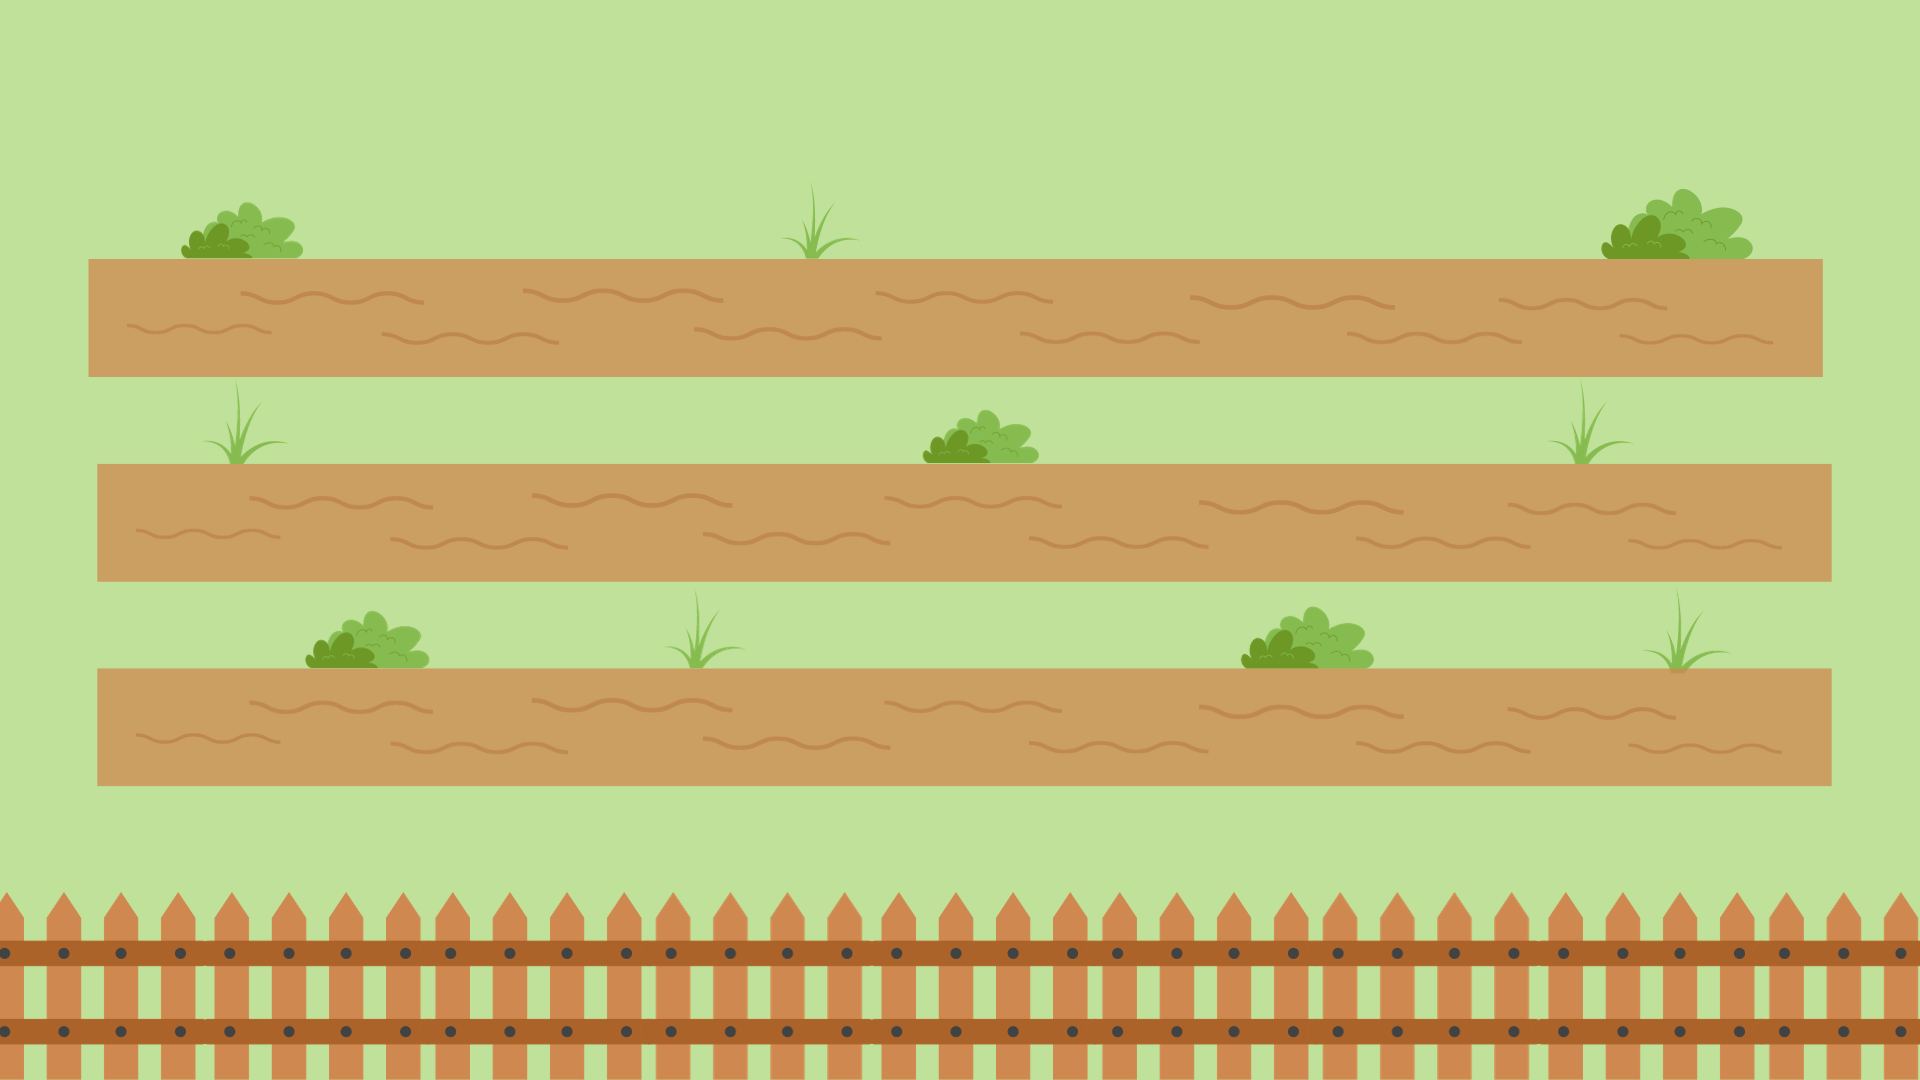
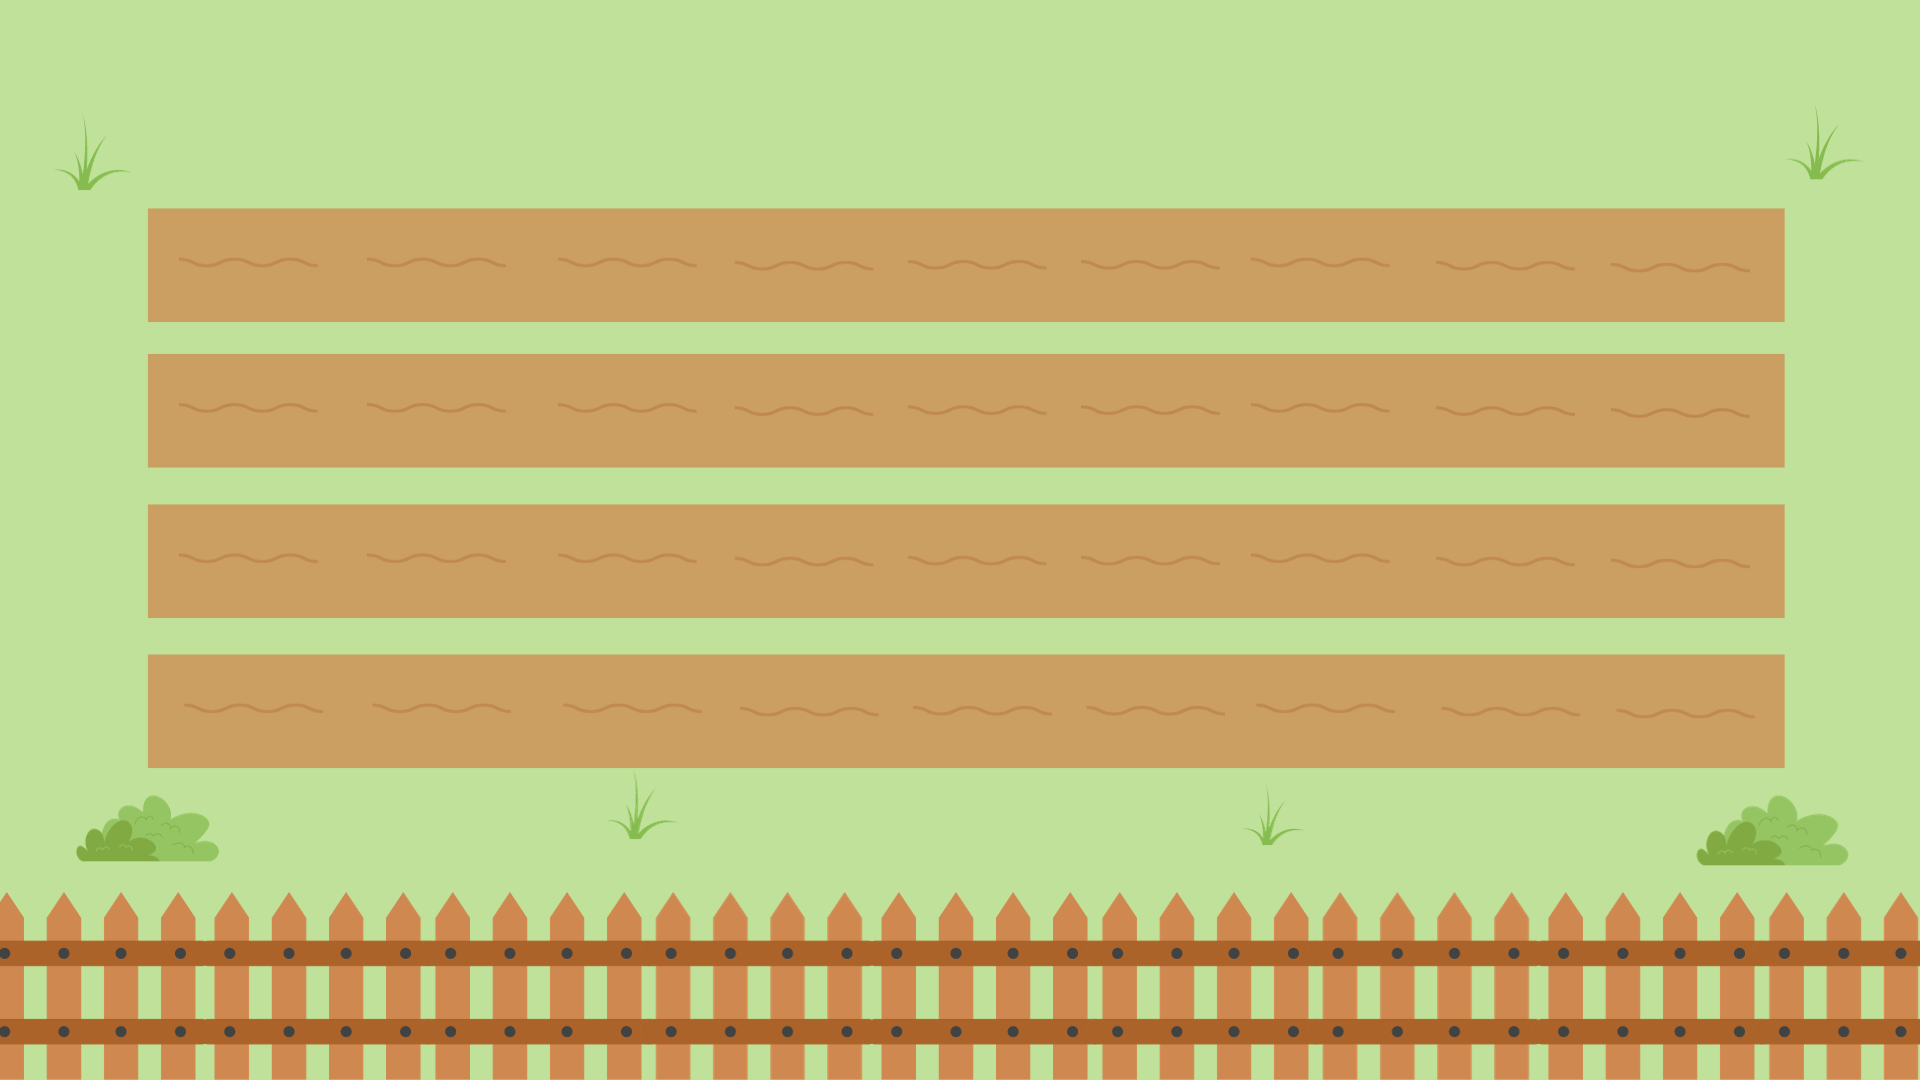
P1: Modified planting simulation

diff --git a/projects/project1/js/script.js b/projects/project1/js/script.js
@@ -19,6 +19,10 @@ let handImage;
 let isDraggingTrash = false;
 let draggedTrashIndex = -1;
 
+let plantImage; 
+let plantedPlants = []; // Array to store plant positions
+let plantingInstruction = "Whenever you're done planting, press Enter.";
+let enterPressed = false;
 
 "use strict";
 
@@ -57,6 +61,11 @@ function preload() {
     //Trash7 image and its position
     trashImages.push(loadImage("assets/images/trash7.png"));
     trashPositions.push({ x: 1050, y: 250 });
+
+
+     // Load the image of a plant
+     plantImage = loadImage("assets/images/plant.png");
+
   }
 
 
@@ -84,8 +93,10 @@ function draw() {
         cleaning();
       } else if (state === "planting") {
         planting();
-      } else if (state === "ending") {
-        ending();
+      } else if (state === "cleaningEnding") {
+        cleaningEnding();
+      } else if (state === "plantingEnding") {
+        plantingEnding();
     }
 }
 
@@ -219,7 +230,7 @@ function draw() {
 
      if (trashImages.length === 0) {
         // Transition to the "ending" state
-        state = "ending";
+        state = "cleaningEnding";
     }
 }  
 
@@ -261,7 +272,7 @@ function mouseReleased() {
     }
 }
 
-function ending() {
+function cleaningEnding() {
     // Display the ending screen
     background(161, 199, 129);
     textSize(30);
@@ -271,6 +282,40 @@ function ending() {
 }
 
 function planting() {
+ 
     // Draw the planting background image as the background
     image(plantingBackground, 0, 0, width, height);
+
+    // Draw the planting instruction at the top center of the screen
+  textSize(20);
+  fill(255);
+  textAlign(CENTER, CENTER);
+  text(plantingInstruction, width / 2, 30);
+
+    // Draw the plant image at the current mouse position
+    image(plantImage, mouseX - plantImage.width / 2 + 190 , mouseY - plantImage.height / 2 + 190 , 100, 100);
+  
+  if (mouseIsPressed) {
+    // Add the current mouse position to an array
+    plantedPlants.push({ x: mouseX, y: mouseY });
+  }
+
+  if (enterPressed) {
+    // Transition to the "plantingEnding" state when Enter is pressed
+    state = "plantingEnding";
+  }
+  
+  // Loop through the array of plant positions and draw the plant image at each position
+  for (let plantPosition of plantedPlants) {
+    image(plantImage, plantPosition.x - plantImage.width / 2 + 190, plantPosition.y - plantImage.height / 2 + 190, 100, 100);
+  }
+  }
+
+  function plantingEnding () {
+       // Display the ending screen
+       background(161, 199, 129);
+       textSize(30);
+       fill(255);
+       textAlign(CENTER, CENTER);
+       text(" Did you know if you plant actual plants you can actually help the environment? ", width / 2, height / 2);
   }
